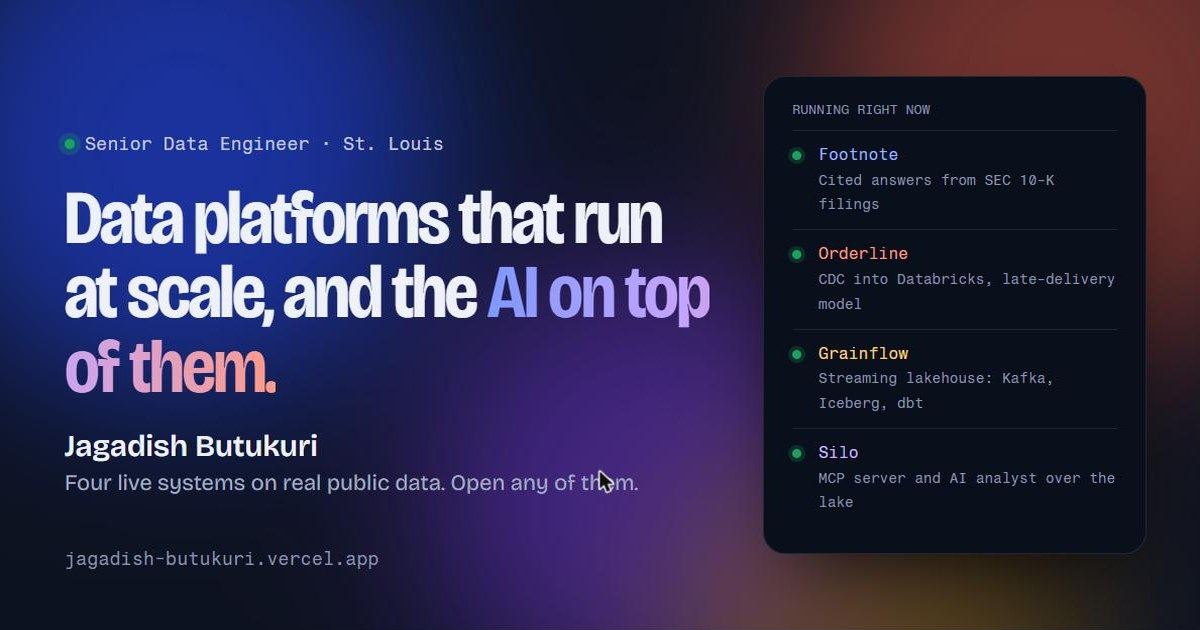
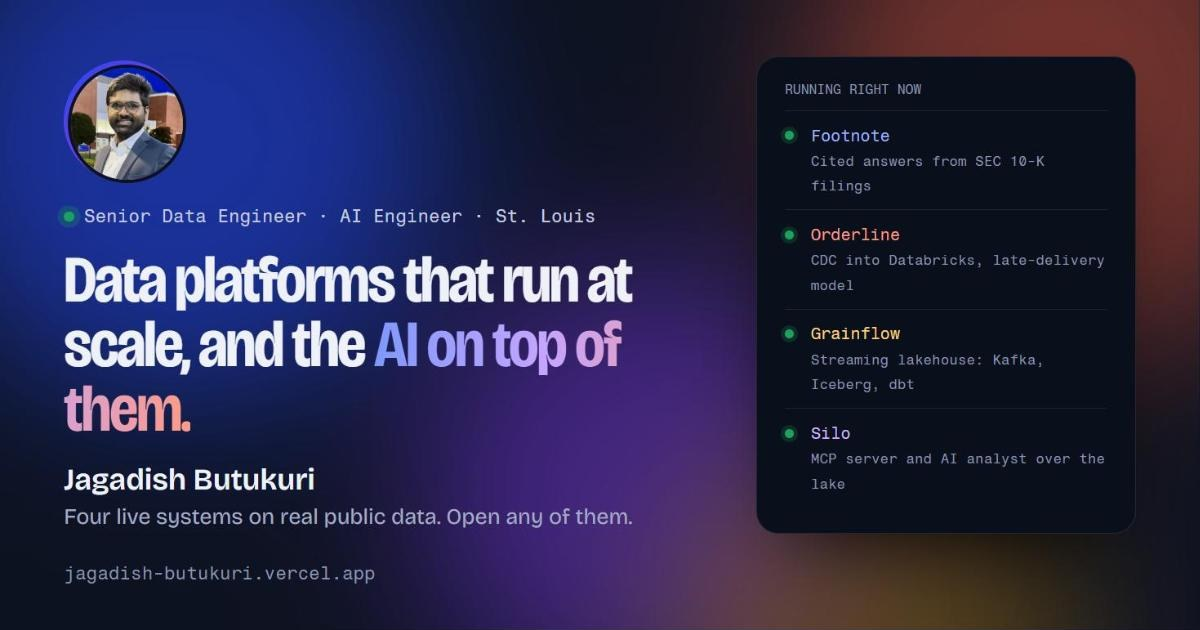
Position the page for data engineer and AI engineer roles
Title, description and JSON-LD name both roles. The About section opens with
a two-track block, data engineering and AI engineering, each point linked to
the project that proves it. Each project carries a tag. Skills gain an "LLM
engineering" group and a separate "ML and MLOps" group. Projects ordered
Footnote, Grainflow, Silo, Orderline, with the board following.

Hero: headshot in a gradient ring, numerals in the lede, foundational certs
moved to the education entry, the current job marked remote from St. Louis,
work authorization stated. og.jpg re-rendered with the photo and both titles.

diff --git a/index.html b/index.html
@@ -3,22 +3,22 @@
 <head>
   <meta charset="utf-8">
   <meta name="viewport" content="width=device-width, initial-scale=1">
-  <title>Jagadish Butukuri · Senior Data Engineer</title>
-  <meta name="description" content="Senior data engineer in St. Louis. Data platforms at enterprise scale, and the governed AI on top of them. Four live systems on real public data, with their numbers shown as they are right now.">
+  <title>Jagadish Butukuri · Senior Data Engineer · AI Engineer</title>
+  <meta name="description" content="Senior data engineer and AI engineer in St. Louis. Data platforms at enterprise scale, and the RAG, agent and MCP systems on top of them. Four live systems on real public data, with their numbers shown as they are right now.">
   <link rel="canonical" href="https://jagadish-butukuri.vercel.app/">
   <meta name="theme-color" content="#fcfcfd" media="(prefers-color-scheme: light)">
   <meta name="theme-color" content="#0d1220" media="(prefers-color-scheme: dark)">
   <meta property="og:type" content="website">
   <meta property="og:url" content="https://jagadish-butukuri.vercel.app/">
   <meta property="og:site_name" content="Jagadish Butukuri">
-  <meta property="og:title" content="Jagadish Butukuri · Senior Data Engineer">
+  <meta property="og:title" content="Jagadish Butukuri · Senior Data Engineer · AI Engineer">
   <meta property="og:description" content="Data platforms at enterprise scale, and the AI on top of them. Four live systems you can open, showing their numbers as they are right now.">
   <meta property="og:image" content="https://jagadish-butukuri.vercel.app/og.jpg">
   <meta property="og:image:width" content="1200">
   <meta property="og:image:height" content="630">
   <meta property="og:image:alt" content="Jagadish Butukuri: data platforms that run at scale, and the AI on top of them. Four live projects.">
   <meta name="twitter:card" content="summary_large_image">
-  <meta name="twitter:title" content="Jagadish Butukuri · Senior Data Engineer">
+  <meta name="twitter:title" content="Jagadish Butukuri · Senior Data Engineer · AI Engineer">
   <meta name="twitter:description" content="Data platforms at enterprise scale, and the AI on top of them. Four live systems you can open.">
   <meta name="twitter:image" content="https://jagadish-butukuri.vercel.app/og.jpg">
   <link rel="icon" href="favicon.svg" type="image/svg+xml">
@@ -37,14 +37,15 @@
     "@context": "https://schema.org",
     "@type": "Person",
     "name": "Jagadish Butukuri",
-    "jobTitle": "Senior Data Engineer",
+    "jobTitle": ["Senior Data Engineer", "AI Engineer"],
     "url": "https://jagadish-butukuri.vercel.app/",
+    "image": "https://jagadish-butukuri.vercel.app/img/jagadish-og.jpg",
     "email": "mailto:jagadishbutukuri33@gmail.com",
     "address": { "@type": "PostalAddress", "addressLocality": "St. Louis", "addressRegion": "MO", "addressCountry": "US" },
     "alumniOf": { "@type": "CollegeOrUniversity", "name": "Saint Louis University" },
     "worksFor": { "@type": "Organization", "name": "Cargill" },
     "sameAs": ["https://www.linkedin.com/in/jagadish33/", "https://github.com/Myselfgitcone"],
-    "knowsAbout": ["Data engineering", "Apache Spark", "Databricks", "Apache Kafka", "Apache Iceberg", "dbt", "RAG", "LangGraph", "MCP", "AWS", "Azure"]
+    "knowsAbout": ["Data engineering", "AI engineering", "Apache Spark", "Databricks", "Apache Kafka", "Apache Iceberg", "dbt", "RAG", "LLM agents", "LangGraph", "MCP", "LLM evaluation", "AWS", "Azure"]
   }
   </script>
   <style>
@@ -158,6 +159,8 @@
     .glow .b { left: 36%; top: 30%; width: 380px; height: 380px; background: var(--coral); opacity: .28; }
     .glow .c { right: 18%; top: 0; width: 360px; height: 360px; background: var(--gold); opacity: .32; }
     .glow .d { right: 4%; top: 40%; width: 320px; height: 320px; background: var(--violet); opacity: .3; }
+    .me { width: 108px; height: 108px; border-radius: 50%; padding: 3px; background: linear-gradient(135deg, var(--blue), var(--violet) 55%, var(--coral)); margin: 0 0 22px; box-shadow: var(--shadow); }
+    .me img { width: 100%; height: 100%; border-radius: 50%; object-fit: cover; display: block; border: 3px solid var(--paper); }
     .eyebrow { display: inline-flex; align-items: center; gap: 8px; padding: 6px 12px 6px 8px; border-radius: 999px; background: var(--surface); border: 1px solid var(--rule); font-size: 14px; color: var(--ink-2); box-shadow: var(--shadow); margin: 0 0 22px; }
     .eyebrow i { width: 8px; height: 8px; border-radius: 50%; background: var(--live); box-shadow: 0 0 0 0 rgba(25,163,92,.5); animation: pulse 2.4s ease-out infinite; }
     @keyframes pulse { 0% { box-shadow: 0 0 0 0 rgba(25,163,92,.5); } 70% { box-shadow: 0 0 0 8px rgba(25,163,92,0); } 100% { box-shadow: 0 0 0 0 rgba(25,163,92,0); } }
@@ -212,6 +215,21 @@
     .how div { padding: 18px 22px; border-radius: 14px; background: var(--surface); border: 1px dashed var(--rule); }
     .how b { display: block; margin-bottom: 4px; }
     .how p { margin: 0; color: var(--ink-2); font-size: 15px; }
+
+    /* two tracks */
+    .tracks { display: grid; grid-template-columns: 1fr 1fr; gap: 14px; margin-top: 14px; }
+    .track { border-radius: var(--r); padding: 22px 24px; background: var(--surface); border: 1px solid var(--rule); box-shadow: var(--shadow); }
+    .track.blue { --c: var(--blue); --ci: var(--blue-ink); --cs: var(--blue-soft); } .track.violet { --c: var(--violet); --ci: var(--violet-ink); --cs: var(--violet-soft); }
+    .track h3 { margin: 0 0 12px; font-size: 21px; font-weight: 650; display: flex; align-items: center; gap: 10px; }
+    .track .tk { font: 600 11.5px/1 var(--mono); color: var(--ci); background: var(--cs); padding: 6px 9px; border-radius: 999px; }
+    .track ul { margin: 0; padding-left: 18px; }
+    .track li { margin: 0 0 8px; color: var(--ink-2); text-wrap: pretty; }
+    .track li::marker { color: var(--c); }
+    .track a { color: var(--ci); font-weight: 650; text-decoration: none; border-bottom: 1px solid var(--cs); }
+    .track a:hover { border-bottom-color: var(--c); }
+    .how-line { margin: 16px 0 0; color: var(--ink-2); font-size: 15px; text-wrap: pretty; }
+    .how-line b { color: var(--ink); }
+    .tag { font: 600 11.5px/1 var(--mono); color: var(--ci); background: var(--surface); padding: 6px 9px; border-radius: 999px; border: 1px solid var(--chip-border); }
 
     /* projects: one colour each */
     .project { position: relative; border-radius: 28px; padding: clamp(24px, 3.5vw, 44px); margin: 0 0 20px; overflow: hidden; border: 1px solid var(--rule); }
@@ -300,7 +318,7 @@
     @media (max-width: 900px) {
       .hero { grid-template-columns: 1fr; padding-top: 40px; }
       .grid4 { grid-template-columns: 1fr 1fr; }
-      .how, .results { grid-template-columns: 1fr; }
+      .how, .results, .tracks { grid-template-columns: 1fr; }
       .section-head { grid-template-columns: 1fr; }
       .p-head { grid-template-columns: 1fr; }
       .p-body { grid-template-columns: 1fr; }
@@ -361,50 +379,65 @@
     <header class="hero" id="top">
       <div class="glow" aria-hidden="true"><i class="a"></i><i class="b"></i><i class="c"></i><i class="d"></i></div>
       <div>
-        <p class="eyebrow"><i></i>Open to senior data &amp; AI platform roles, anywhere in the US</p>
+        <div class="me"><img src="img/jagadish.webp" width="640" height="640" alt="Jagadish Butukuri" fetchpriority="high" decoding="async"></div>
+        <p class="eyebrow"><i></i>Open to Senior Data Engineer and AI Engineer roles, anywhere in the US</p>
         <h1>Data platforms that run at scale, and the <span class="grad">AI on top of them.</span></h1>
-        <p class="lede">I'm <b>Jagadish Butukuri</b>, a senior data engineer in St. Louis. Five years at JPMorgan Chase, Molina Healthcare and Cargill, taking pipelines and RAG systems from prototype to production. Four of my own are running right now, on real public data.</p>
+        <p class="lede">I'm <b>Jagadish Butukuri</b>, a senior data engineer in St. Louis with 5+ years at JPMorgan Chase, Molina Healthcare and Cargill, taking data pipelines and LLM systems from prototype to production. Four of my own run right now on real public data: two data platforms, two AI systems.</p>
         <div class="actions">
           <a class="btn primary" href="#work">See the live projects</a>
           <a class="btn" href="https://www.linkedin.com/in/jagadish33/" target="_blank" rel="noopener">LinkedIn</a>
           <a class="btn" href="https://github.com/Myselfgitcone" target="_blank" rel="noopener">GitHub</a>
         </div>
-        <ul class="certs"><li>AWS Certified AI Practitioner</li><li>AWS Certified Cloud Practitioner</li><li>M.S. Information Systems</li></ul>
+        <ul class="certs"><li>Authorized to work in the US</li><li>St. Louis · remote, hybrid or on-site anywhere in the US</li></ul>
       </div>
       <aside class="board" aria-label="Live status of the projects">
         <h2><span>Running right now</span><span id="board-clock"></span></h2>
         <ol>
-          <li id="b-orderline"><span class="dot"></span><div><div class="sys"><a href="https://myselfgitcone.github.io/orderline/" target="_blank" rel="noopener">Orderline</a><span class="when">checking…</span></div><div class="line">CDC from Postgres into Databricks, scored for late delivery</div><svg class="spark" viewBox="0 0 200 28" preserveAspectRatio="none" aria-hidden="true"></svg></div></li>
-          <li id="b-grainflow"><span class="dot"></span><div><div class="sys"><a href="https://grainflow-mauve.vercel.app" target="_blank" rel="noopener">Grainflow</a><span class="when">checking…</span></div><div class="line">Streaming lakehouse: futures, weather, crop ratings</div><svg class="spark" viewBox="0 0 200 28" preserveAspectRatio="none" aria-hidden="true"></svg></div></li>
           <li id="b-footnote"><span class="dot"></span><div><div class="sys"><a href="https://myselfgitcone.github.io/footnote/" target="_blank" rel="noopener">Footnote</a><span class="when">checking…</span></div><div class="line">Cited answers from SEC 10-K filings</div></div></li>
+          <li id="b-grainflow"><span class="dot"></span><div><div class="sys"><a href="https://grainflow-mauve.vercel.app" target="_blank" rel="noopener">Grainflow</a><span class="when">checking…</span></div><div class="line">Streaming lakehouse: futures, weather, crop ratings</div><svg class="spark" viewBox="0 0 200 28" preserveAspectRatio="none" aria-hidden="true"></svg></div></li>
           <li id="b-silo"><span class="dot"></span><div><div class="sys"><a href="https://silo-production-9efb.up.railway.app" target="_blank" rel="noopener">Silo</a><span class="when">checking…</span></div><div class="line">MCP server and AI analyst over the Grainflow lake</div></div></li>
+          <li id="b-orderline"><span class="dot"></span><div><div class="sys"><a href="https://myselfgitcone.github.io/orderline/" target="_blank" rel="noopener">Orderline</a><span class="when">checking…</span></div><div class="line">CDC from Postgres into Databricks, scored for late delivery</div><svg class="spark" viewBox="0 0 200 28" preserveAspectRatio="none" aria-hidden="true"></svg></div></li>
         </ol>
         <p class="note">Read from the systems themselves when this page opens.</p>
       </aside>
     </header>
 
     <section id="about">
-      <div class="section-head reveal"><h2>What I bring</h2><p>The four things I'm hired for, and how I work.</p></div>
+      <div class="section-head reveal"><h2>What I bring</h2><p>Two tracks, one engineer: the data platform, and the AI that runs on it.</p></div>
       <div class="grid4 reveal stagger">
         <div class="card"><div class="ic blue">⛁</div><h3>Data platforms at scale</h3><p>Batch and real-time pipelines on AWS, Azure, Databricks and Snowflake with Spark, Kafka, Delta Lake, Iceberg and dbt. Pipelines handling hundreds of millions of transactions a day.</p></div>
-        <div class="card"><div class="ic violet">✦</div><h3>GenAI, in production</h3><p>RAG with LangChain, OpenAI and Pinecone; MCP servers that let LLM apps query governed data without bypassing access controls; MLflow, SageMaker and Feast for the model lifecycle.</p></div>
+        <div class="card"><div class="ic violet">✦</div><h3>LLM systems, in production</h3><p>RAG with citations, agents with tool use, MCP servers over governed data, structured outputs, prompt caching, guardrails on generated SQL, and evals that gate every change in CI.</p></div>
         <div class="card"><div class="ic gold">◎</div><h3>Reliable, trusted data</h3><p>Data contracts, CDC, freshness SLAs, automated quality checks and observability, so bad data is caught before anyone uses it.</p></div>
         <div class="card"><div class="ic coral">⛨</div><h3>Regulated, sensitive data</h3><p>HIPAA, PHI de-identification, HL7/FHIR, IAM, RBAC, encryption, Lake Formation, Unity Catalog and Purview, in banking and healthcare.</p></div>
       </div>
-      <div class="how reveal stagger">
-        <div><b>Partner across teams</b><p>Works directly with risk, compliance, regulatory reporting and business teams; leads architecture reviews.</p></div>
-        <div><b>Own it in production</b><p>Incident response, runbooks, SLAs and support; owns Cargill's data and AI platform end to end.</p></div>
-        <div><b>Measure, don't guess</b><p>Tests, evals and cost tracking on everything: CI gates on data quality and on AI answer quality.</p></div>
+      <div class="tracks reveal stagger">
+        <div class="track blue">
+          <h3><span class="tk">Data engineering</span>What you get</h3>
+          <ul>
+            <li>Streaming lakehouse with one set of data contracts from Kafka to gold: <a href="#grainflow">Grainflow</a>.</li>
+            <li>Change data capture with zero lost changes, proven by replay in CI: <a href="#orderline">Orderline</a>.</li>
+            <li>Terabytes a day on Databricks at Cargill; hundreds of millions of banking transactions a day at JPMorgan; HIPAA data at Molina.</li>
+          </ul>
+        </div>
+        <div class="track violet">
+          <h3><span class="tk">AI engineering</span>What you get</h3>
+          <ul>
+            <li>RAG where every claim cites its source and every figure is the filed number, with a judge-model eval suite as a CI gate: <a href="#footnote">Footnote</a>.</li>
+            <li>An MCP server and agent with two locks on generated SQL, a cost budget and graded evals: <a href="#silo">Silo</a>.</li>
+            <li>Production RAG and MCP servers at Cargill; a late-delivery model with champion/challenger promotion in MLflow: <a href="#orderline">Orderline</a>.</li>
+          </ul>
+        </div>
       </div>
+      <p class="how-line reveal"><b>How I work:</b> partner directly with risk, compliance and business teams · own it in production, incidents and runbooks included · measure, don't guess: tests, evals and cost tracking on everything.</p>
     </section>
 
     <section id="work">
-      <div class="section-head reveal"><h2>Projects</h2><p>Four systems built end to end on real public data, each still running on a schedule. For each: situation, task, action, result.</p></div>
+      <div class="section-head reveal"><h2>Projects</h2><p>Four systems built end to end on real public data, each still running on a schedule. Two are AI systems, two are data platforms, and Silo runs on top of Grainflow. For each: situation, task, action, result.</p></div>
 
       <article class="project blue reveal" id="footnote">
         <div class="p-head">
           <div>
-            <h3><a href="https://myselfgitcone.github.io/footnote/" target="_blank" rel="noopener">Footnote</a> <span class="live" id="footnote-live">Live · refreshed every morning</span></h3>
+            <h3><a href="https://myselfgitcone.github.io/footnote/" target="_blank" rel="noopener">Footnote</a> <span class="tag">AI engineering</span> <span class="live" id="footnote-live">Live · refreshed every morning</span></h3>
             <p class="what">Ask about twenty public companies' annual reports and get an answer where every claim cites its passage and every figure is the number filed with the SEC.</p>
           </div>
           <div class="p-links"><a class="btn c" href="https://myselfgitcone.github.io/footnote/" target="_blank" rel="noopener">Ask it a question</a><a class="btn" href="https://github.com/Myselfgitcone/footnote" target="_blank" rel="noopener">GitHub</a></div>
@@ -439,48 +472,10 @@
         </div>
       </article>
 
-      <article class="project coral reveal" id="orderline">
-        <div class="p-head">
-          <div>
-            <h3><a href="https://myselfgitcone.github.io/orderline/" target="_blank" rel="noopener">Orderline</a> <span class="live" id="orderline-live">Live · synced every six hours</span></h3>
-            <p class="what">A live Postgres shop database captured change by change with Debezium and rebuilt in Databricks, with a model that predicts which orders will arrive late.</p>
-          </div>
-          <div class="p-links"><a class="btn c" href="https://myselfgitcone.github.io/orderline/" target="_blank" rel="noopener">Open the page</a><a class="btn" href="https://github.com/Myselfgitcone/orderline" target="_blank" rel="noopener">GitHub</a></div>
-        </div>
-        <div class="p-body">
-          <div>
-            <ul class="stack stagger"><li>Postgres</li><li>Debezium</li><li>Databricks</li><li>Lakeflow</li><li>Unity Catalog</li><li>MLflow</li><li>scikit-learn</li><li>GitHub Actions</li></ul>
-            <div class="results stagger">
-              <div><span class="n">AUC 0.90 vs 0.67</span><p>model against carrier late rates alone</p></div>
-              <div><span class="n">0 lost changes</span><p>verified by row-for-row replay in CI</p></div>
-              <div><span class="n">4 of 4 causes found</span><p>planted causes of lateness identified</p></div>
-            </div>
-          </div>
-          <a class="shot" href="https://myselfgitcone.github.io/orderline/" target="_blank" rel="noopener" aria-label="Open Orderline"><img src="img/orderline.webp" width="1200" height="504" alt="Orderline: will this order arrive late? Orders captured, open orders, late share and model AUC" loading="lazy" decoding="async"></a>
-        </div>
-        <div class="star">
-          <div><h4>Situation</h4><p>CDC pipelines lose or duplicate changes when a sync fails, and late-delivery models are often trained on mislabeled data, with in-transit orders counted as on time.</p></div>
-          <div><h4>Task</h4><p>Capture every insert, update and delete from a live order database into Databricks without losing or misordering a change, and build a late-delivery model that can be checked against known ground truth.</p></div>
-          <div class="wide"><h4>Action</h4><ul>
-            <li>Changes stream from a Postgres replication slot through Debezium; the slot only advances after a batch has landed in Databricks, so a failed sync loses nothing.</li>
-            <li>A Lakeflow bronze, silver and gold pipeline applies changes in log order with SCD Type 1 and 2, and joins each order to the customer as they were at checkout.</li>
-            <li>A gradient-boosted model with censoring-aware labels: orders not yet due are unknown, not on time, with a time-based train/test split.</li>
-            <li>Known causes of lateness were planted in the source data, so the model is graded on finding the real causes, not just on a score. MLflow promotes a challenger only when it beats the champion.</li>
-            <li>CI replays every captured event and checks it rebuilds the source tables row for row.</li>
-          </ul></div>
-          <div class="wide result"><h4>Result</h4><ul>
-            <li>Model <span class="k">AUC 0.90</span>, against <span class="k">0.67</span> from carrier late rates alone.</li>
-            <li><span class="k">All four</span> planted causes of lateness identified.</li>
-            <li><span class="k">Zero lost changes</span>: replayed duplicates are removed by log position, proven by row-for-row replay checks in CI.</li>
-            <li>Syncs every <span class="k">six hours</span>, with a live page showing predictions and the model's track record.</li>
-          </ul></div>
-        </div>
-      </article>
-
       <article class="project gold reveal" id="grainflow">
         <div class="p-head">
           <div>
-            <h3><a href="https://grainflow-mauve.vercel.app" target="_blank" rel="noopener">Grainflow</a> <span class="live" id="grainflow-live">Live · rebuilt four times a day</span></h3>
+            <h3><a href="https://grainflow-mauve.vercel.app" target="_blank" rel="noopener">Grainflow</a> <span class="tag">Data engineering</span> <span class="live" id="grainflow-live">Live · rebuilt four times a day</span></h3>
             <p class="what">A streaming lakehouse joining CBOT futures, NOAA weather and USDA crop ratings to answer one market question with evidence.</p>
           </div>
           <div class="p-links"><a class="btn c" href="https://grainflow-mauve.vercel.app" target="_blank" rel="noopener">Open the dashboard</a><a class="btn" href="https://github.com/Myselfgitcone/grainflow" target="_blank" rel="noopener">GitHub</a></div>
@@ -518,7 +513,7 @@
       <article class="project violet reveal" id="silo">
         <div class="p-head">
           <div>
-            <h3><a href="https://silo-production-9efb.up.railway.app" target="_blank" rel="noopener">Silo</a> <span class="live" id="silo-live">Live · answers from Grainflow's latest build</span></h3>
+            <h3><a href="https://silo-production-9efb.up.railway.app" target="_blank" rel="noopener">Silo</a> <span class="tag">AI engineering · MCP</span> <span class="live" id="silo-live">Live · answers from Grainflow's latest build</span></h3>
             <p class="what">Ask Grainflow's data a question in plain English and get the numbers with the SQL behind them, through an MCP server any AI client can use.</p>
           </div>
           <div class="p-links"><a class="btn c" href="https://silo-production-9efb.up.railway.app" target="_blank" rel="noopener">Ask it a question</a><a class="btn" href="https://github.com/Myselfgitcone/silo" target="_blank" rel="noopener">GitHub</a></div>
@@ -550,6 +545,44 @@
           </ul></div>
         </div>
       </article>
+
+      <article class="project coral reveal" id="orderline">
+        <div class="p-head">
+          <div>
+            <h3><a href="https://myselfgitcone.github.io/orderline/" target="_blank" rel="noopener">Orderline</a> <span class="tag">Data engineering · ML</span> <span class="live" id="orderline-live">Live · synced every six hours</span></h3>
+            <p class="what">A live Postgres shop database captured change by change with Debezium and rebuilt in Databricks, with a model that predicts which orders will arrive late.</p>
+          </div>
+          <div class="p-links"><a class="btn c" href="https://myselfgitcone.github.io/orderline/" target="_blank" rel="noopener">Open the page</a><a class="btn" href="https://github.com/Myselfgitcone/orderline" target="_blank" rel="noopener">GitHub</a></div>
+        </div>
+        <div class="p-body">
+          <div>
+            <ul class="stack stagger"><li>Postgres</li><li>Debezium</li><li>Databricks</li><li>Lakeflow</li><li>Unity Catalog</li><li>MLflow</li><li>scikit-learn</li><li>GitHub Actions</li></ul>
+            <div class="results stagger">
+              <div><span class="n">AUC 0.90 vs 0.67</span><p>model against carrier late rates alone</p></div>
+              <div><span class="n">0 lost changes</span><p>verified by row-for-row replay in CI</p></div>
+              <div><span class="n">4 of 4 causes found</span><p>planted causes of lateness identified</p></div>
+            </div>
+          </div>
+          <a class="shot" href="https://myselfgitcone.github.io/orderline/" target="_blank" rel="noopener" aria-label="Open Orderline"><img src="img/orderline.webp" width="1200" height="504" alt="Orderline: will this order arrive late? Orders captured, open orders, late share and model AUC" loading="lazy" decoding="async"></a>
+        </div>
+        <div class="star">
+          <div><h4>Situation</h4><p>CDC pipelines lose or duplicate changes when a sync fails, and late-delivery models are often trained on mislabeled data, with in-transit orders counted as on time.</p></div>
+          <div><h4>Task</h4><p>Capture every insert, update and delete from a live order database into Databricks without losing or misordering a change, and build a late-delivery model that can be checked against known ground truth.</p></div>
+          <div class="wide"><h4>Action</h4><ul>
+            <li>Changes stream from a Postgres replication slot through Debezium; the slot only advances after a batch has landed in Databricks, so a failed sync loses nothing.</li>
+            <li>A Lakeflow bronze, silver and gold pipeline applies changes in log order with SCD Type 1 and 2, and joins each order to the customer as they were at checkout.</li>
+            <li>A gradient-boosted model with censoring-aware labels: orders not yet due are unknown, not on time, with a time-based train/test split.</li>
+            <li>Known causes of lateness were planted in the source data, so the model is graded on finding the real causes, not just on a score. MLflow promotes a challenger only when it beats the champion.</li>
+            <li>CI replays every captured event and checks it rebuilds the source tables row for row.</li>
+          </ul></div>
+          <div class="wide result"><h4>Result</h4><ul>
+            <li>Model <span class="k">AUC 0.90</span>, against <span class="k">0.67</span> from carrier late rates alone.</li>
+            <li><span class="k">All four</span> planted causes of lateness identified.</li>
+            <li><span class="k">Zero lost changes</span>: replayed duplicates are removed by log position, proven by row-for-row replay checks in CI.</li>
+            <li>Syncs every <span class="k">six hours</span>, with a live page showing predictions and the model's track record.</li>
+          </ul></div>
+        </div>
+      </article>
     </section>
 
     <section id="experience">
@@ -557,7 +590,7 @@
       <div class="timeline reveal stagger">
         <div class="job">
           <span class="when">Sep 2024 – now</span>
-          <h3>Senior Data Engineer <span>· Cargill, Minneapolis</span></h3>
+          <h3>Senior Data Engineer <span>· Cargill, Minneapolis · remote from St. Louis</span></h3>
           <p class="scope">Owns Cargill's cloud-native data and AI platform on AWS and Databricks for supply-chain, procurement, commodity and logistics data.</p>
           <ul>
             <li>Built an ELT platform ingesting <b>terabytes of data daily</b>, and replaced scheduled batch jobs with near-real-time delivery using Spark Structured Streaming and Kafka.</li>
@@ -598,8 +631,9 @@
       <div class="skills reveal stagger">
         <div class="blue"><h3>Data platforms</h3><ul class="chips"><li>Databricks</li><li>Apache Spark</li><li>Structured Streaming</li><li>Delta Lake</li><li>Apache Iceberg</li><li>Snowflake</li><li>Python</li><li>SQL</li><li>PySpark</li></ul></div>
         <div class="coral"><h3>Streaming and CDC</h3><ul class="chips"><li>Kafka</li><li>Kafka Connect</li><li>Confluent Schema Registry</li><li>Debezium</li></ul></div>
-        <div class="violet"><h3>GenAI and ML</h3><ul class="chips"><li>RAG</li><li>LangChain</li><li>LangGraph</li><li>LangSmith</li><li>Pinecone</li><li>MCP</li><li>LLM evals</li><li>MLflow</li><li>SageMaker</li></ul></div>
+        <div class="violet"><h3>LLM engineering</h3><ul class="chips"><li>RAG with citations</li><li>Agents and tool use</li><li>MCP servers</li><li>Anthropic API</li><li>OpenAI API</li><li>LangChain</li><li>LangGraph</li><li>LangSmith evals</li><li>LLM-as-judge</li><li>Structured outputs</li><li>Prompt caching</li><li>Guardrails</li><li>Pinecone</li><li>Embeddings (bge, ONNX)</li></ul></div>
         <div class="gold"><h3>Modeling and data quality</h3><ul class="chips"><li>dbt (incl. Mesh)</li><li>Dimensional modeling</li><li>Data Vault 2.0</li><li>Data contracts</li><li>Great Expectations</li><li>Monte Carlo</li></ul></div>
+        <div class="violet"><h3>ML and MLOps</h3><ul class="chips"><li>scikit-learn</li><li>MLflow</li><li>Champion/challenger</li><li>SageMaker</li><li>Feast</li><li>Time-based validation</li></ul></div>
         <div><h3>Cloud and infrastructure</h3><ul class="chips"><li>AWS S3</li><li>Lambda</li><li>Glue</li><li>Redshift</li><li>Step Functions</li><li>IAM</li><li>Azure Data Factory</li><li>Synapse</li><li>Event Hubs</li><li>Terraform</li><li>Airflow</li><li>Dagster</li></ul></div>
         <div><h3>Regulated data</h3><ul class="chips"><li>HIPAA</li><li>HL7/FHIR</li><li>PHI de-identification</li><li>RBAC</li></ul></div>
       </div>
@@ -607,8 +641,8 @@
     </section>
 
     <section class="contact reveal" id="contact">
-      <h2>Building a data or AI platform that has to work at scale? Let's talk.</h2>
-      <p>Email is quickest. I'm in St. Louis and open to remote, hybrid or on-site work across the US.</p>
+      <h2>Need a data platform that holds up, or an AI system you can trust? Let's talk.</h2>
+      <p>Email is quickest; I reply within a day. Based in St. Louis, open to remote, hybrid or on-site anywhere in the US. Authorized to work in the US.</p>
       <div class="actions">
         <a class="btn" href="mailto:jagadishbutukuri33@gmail.com">Email me</a>
         <a class="btn ghost" href="https://www.linkedin.com/in/jagadish33/" target="_blank" rel="noopener">LinkedIn</a>

diff --git a/og.html b/og.html
@@ -13,10 +13,12 @@
   .glow .b { left: 420px; top: 260px; width: 460px; height: 460px; background: #7c3aed; opacity: .8; }
   .glow .c { right: -120px; top: -160px; width: 520px; height: 520px; background: #ef5a3c; opacity: .75; }
   .glow .d { right: 120px; bottom: -220px; width: 420px; height: 420px; background: #e39a0c; opacity: .55; }
-  .in { position: absolute; inset: 56px 64px; display: grid; grid-template-columns: 1fr 380px; gap: 48px; align-items: center; }
-  .eyebrow { display: inline-flex; align-items: center; gap: 10px; font: 500 18px/1 "Fragment Mono", monospace; color: #c3cbe0; margin: 0 0 28px; }
+  .in { position: absolute; inset: 36px 64px 76px; display: grid; grid-template-columns: 1fr 380px; gap: 48px; align-items: center; }
+  .me { width: 112px; height: 112px; border-radius: 50%; padding: 4px; background: linear-gradient(135deg, #2447f0, #7c3aed 55%, #ef5a3c); margin: 0 0 26px; }
+  .me img { width: 100%; height: 100%; border-radius: 50%; object-fit: cover; display: block; border: 4px solid #0d1220; }
+  .eyebrow { display: inline-flex; align-items: center; gap: 10px; font: 500 18px/1 "Fragment Mono", monospace; color: #c3cbe0; margin: 0 0 22px; }
   .eyebrow i { width: 10px; height: 10px; border-radius: 50%; background: #19a35c; box-shadow: 0 0 0 6px rgba(25,163,92,.25); }
-  h1 { margin: 0 0 24px; font-size: 76px; font-weight: 650; line-height: .98; letter-spacing: -.03em; font-variation-settings: "opsz" 96, "wdth" 86; }
+  h1 { margin: 0 0 20px; font-size: 66px; font-weight: 650; line-height: .98; letter-spacing: -.03em; font-variation-settings: "opsz" 96, "wdth" 86; }
   h1 span { background: linear-gradient(90deg, #7f98ff, #c4a5ff 45%, #ff9a85); -webkit-background-clip: text; background-clip: text; color: transparent; }
   .name { font-size: 30px; font-weight: 600; margin: 0 0 6px; }
   .sub { font-size: 22px; color: #a3acc2; margin: 0; }
@@ -27,7 +29,7 @@
   .board b { font-weight: 500; display: block; }
   .board span { color: #8a94ad; font-size: 14px; }
   .o b { color: #ff9a85; } .g b { color: #ffd37a; } .f b { color: #9db2ff; } .s b { color: #cdb4ff; }
-  .url { position: absolute; left: 64px; bottom: 44px; font: 500 18px/1 "Fragment Mono", monospace; color: #8a94ad; }
+  .url { position: absolute; left: 64px; bottom: 30px; font: 500 18px/1 "Fragment Mono", monospace; color: #8a94ad; }
 </style>
 </head>
 <body>
@@ -35,7 +37,8 @@
   <div class="glow"><i class="a"></i><i class="b"></i><i class="c"></i><i class="d"></i></div>
   <div class="in">
     <div>
-      <p class="eyebrow"><i></i>Senior Data Engineer · St. Louis</p>
+      <div class="me"><img src="img/jagadish-og.jpg" alt=""></div>
+      <p class="eyebrow"><i></i>Senior Data Engineer · AI Engineer · St. Louis</p>
       <h1>Data platforms that run at scale, and the <span>AI on top of them.</span></h1>
       <p class="name">Jagadish Butukuri</p>
       <p class="sub">Four live systems on real public data. Open any of them.</p>
